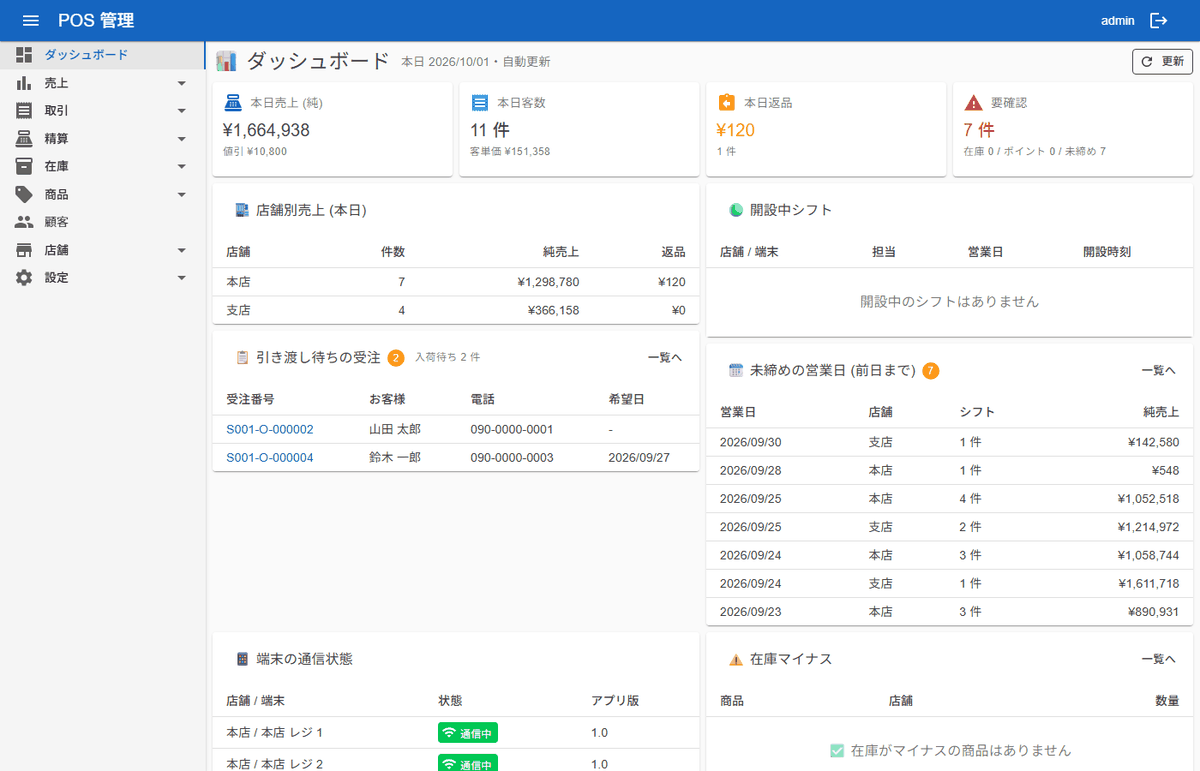
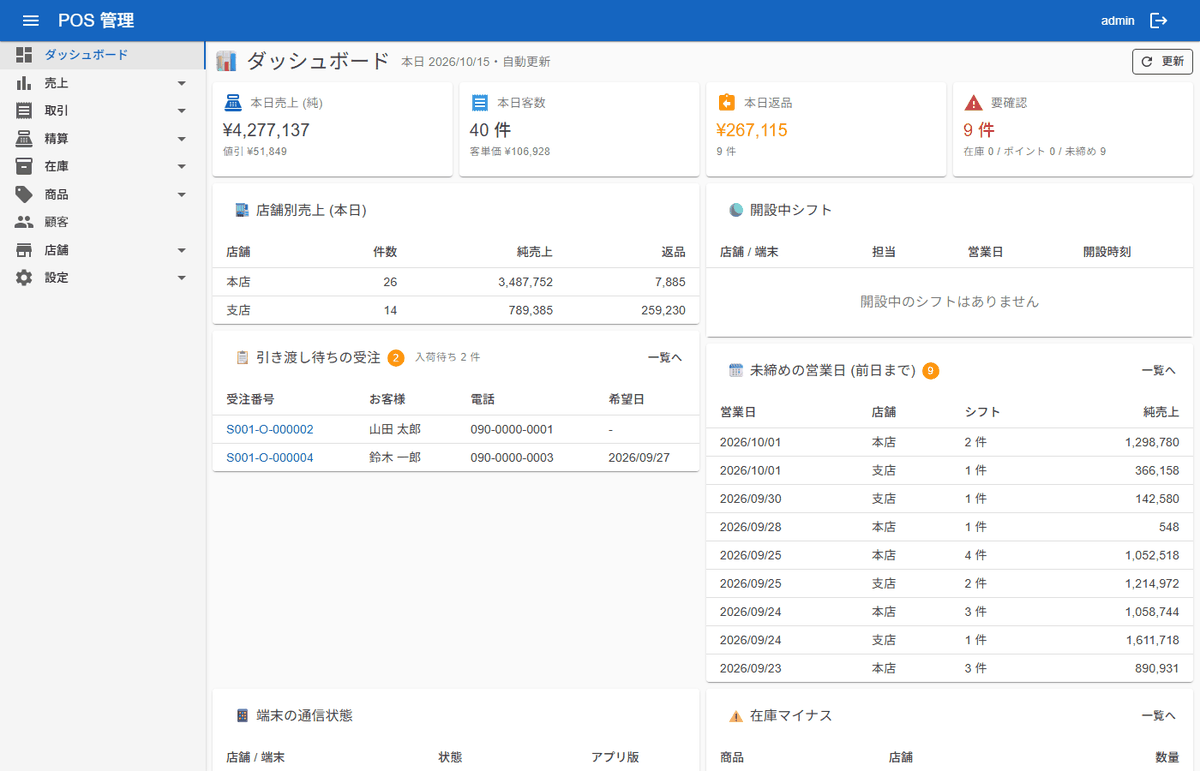
管理画面の金額と件数の書式をそろえる
- 件数・人数・枚数の表示を 3 桁区切りの ToCountText() にそろえる
- ダッシュボードの表の金額から「¥」を外し、売上集計の金額のカードを「¥」付きにする
- 金額と件数の書式を規則に書く
- README のダッシュボードと売上集計の画像を撮り直す

diff --git a/server/src/Pos.Server.Host/Application/ViewExtensions.cs b/server/src/Pos.Server.Host/Application/ViewExtensions.cs
@@ -20,8 +20,13 @@ public static class ViewExtensions
 
     public static string ToQuantityText(this decimal? value) => value is null ? "-" : value.Value.ToQuantityText();
 
-    // ポイント数・件数 (3 桁区切り)
+    // ポイント数 (3 桁区切り)
     public static string ToPointText(this int value) => value.ToString("N0", CultureInfo.InvariantCulture);
+
+    // 件数・人数・枚数 (3 桁区切り)
+    public static string ToCountText(this int value) => value.ToString("N0", CultureInfo.InvariantCulture);
+
+    public static string ToCountText(this long value) => value.ToString("N0", CultureInfo.InvariantCulture);
 
     public static string ToTerminalNoText(this int value) => value.ToString("00", CultureInfo.InvariantCulture);
 

diff --git a/.claude/rules/server-ui.md b/.claude/rules/server-ui.md
@@ -18,6 +18,8 @@ paths:
 - `LoadAsync`、`LoadGridAsync`、`RunAsync` は受けた例外をバナーに出してログに記録するので、ページで重ねて記録しない
 - 変更の通知 (`ChangeNotificationService`) を購読する画面は、イベントの中で読み込まず、タイマーを掛け直して `InvokeAsync` で読み直し、Dispose で購読を外す
 - razor の表示用の加工は `Application/ViewHelper` と `ViewExtensions` だけに置き、ページで書式 (`:N0`、`ToString("MM/dd")`) を組まない (グラフの軸の書式とラベルは除く)
+- 金額は `ToYen()` (3 桁区切り、単位なし) にし、表の列は見出しで金額とわかるようにする。ダッシュボードと売上集計の金額のカードだけ「¥」を前に付ける (金種と、% と並ぶ値引の額は「円」を後ろに付ける)
+- 件数・人数・枚数は `ToCountText()` (3 桁区切り) にする (タブとバッジの数は除く)
 - 一覧の日時は年なしの `ToShortDateTimeText()`、詳細は `ToDateTimeText()` にする
 - 例外として、会員と在庫の一覧 (会員一覧の登録日、会員詳細のタブの表、在庫の更新日時) は、何年も前の日時が並ぶので年付きの `ToDateTimeText()` にする
 - 詳細のダイアログの中の表 (受注の前受金、締めのシフト) の日時は、一覧と同じにする
